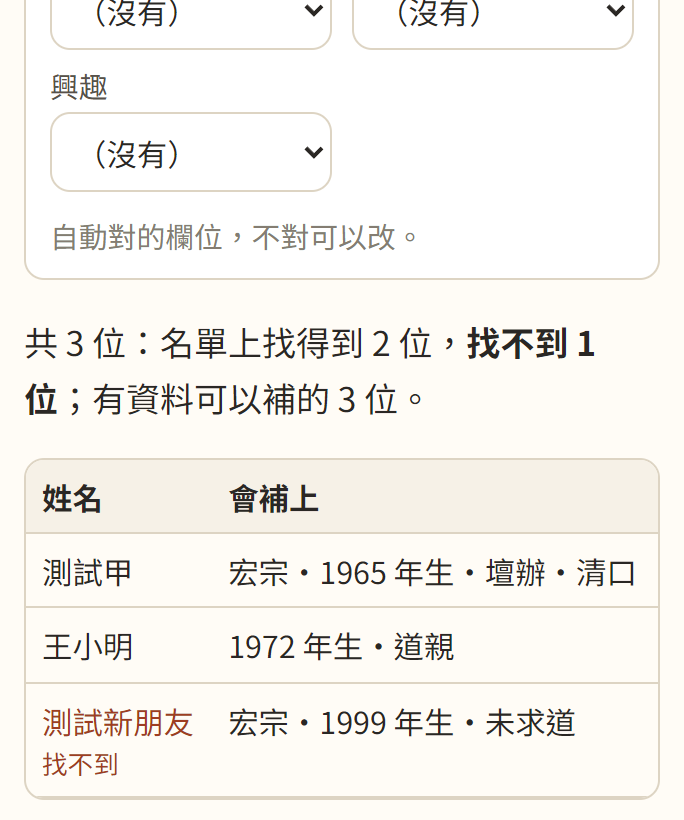
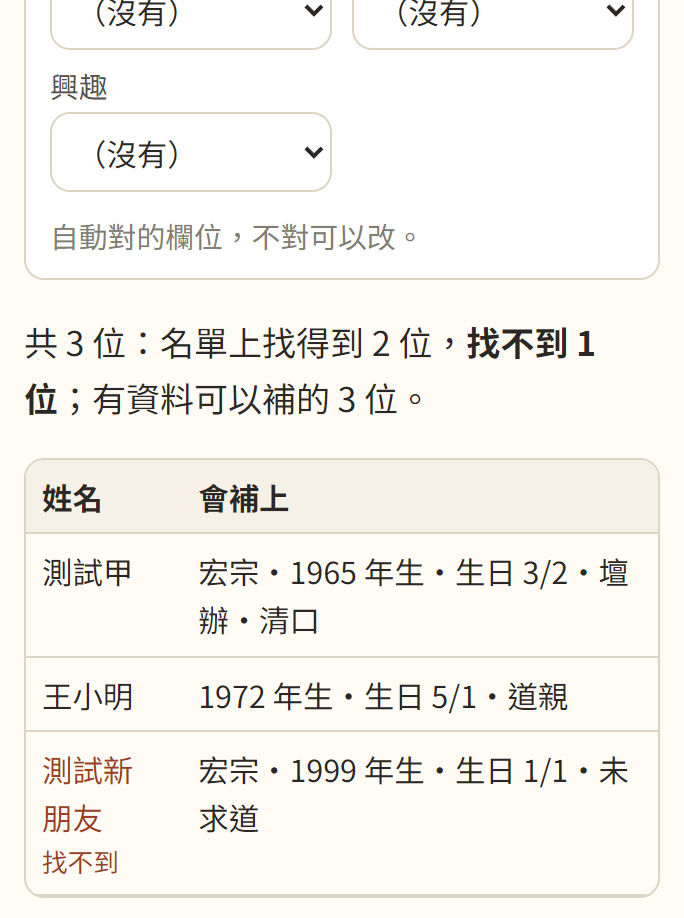
成員生日：月日選填（編輯、卡片 🎂、匯入帶月日）

diff --git a/index.html b/index.html
@@ -23,7 +23,7 @@
   <link rel="preconnect" href="https://fonts.googleapis.com">
   <link rel="preconnect" href="https://fonts.gstatic.com" crossorigin>
   <link href="https://fonts.googleapis.com/css2?family=Noto+Sans+TC:wght@400;500;700&family=Noto+Serif+TC:wght@600;700&display=swap" rel="stylesheet">
-  <link rel="stylesheet" href="css/app.css?v=20261123c">
+  <link rel="stylesheet" href="css/app.css?v=20261123d">
   <script>try { var t = localStorage.getItem('duty-calendar:text-size'); if (t === 'l' || t === 'xl') document.documentElement.classList.add('text-' + t); } catch (e) {}</script>
 </head>
 <body class="splash-on">
@@ -118,67 +118,67 @@
   <script src="https://cdn.jsdelivr.net/npm/fullcalendar@6.1.21/index.global.min.js"></script>
   <script src="https://cdn.jsdelivr.net/npm/@fullcalendar/core@6.1.21/locales/zh-tw.global.min.js"></script>
   <!-- 改了 js、css 後把 ?v= 的日期換新，手機才不會用到舊的檔案（GitHub Pages 會快取 10 分鐘） -->
-  <script src="js/site.js?v=20261123c"></script>
-  <script src="js/region.js?v=20261123c"></script>
-  <script src="js/config.js?v=20261123c"></script>
-  <script src="js/api.js?v=20261123c"></script>
-  <script src="js/format.js?v=20261123c"></script>
-  <script src="js/member-suggest.js?v=20261123c"></script>
-  <script src="js/member-file.js?v=20261123c"></script>
-  <script src="js/family.js?v=20261123c"></script>
-  <script src="js/lunar-util.js?v=20261123c"></script>
-  <script src="js/date-list.js?v=20261123c"></script>
-  <script src="js/share.js?v=20261123c"></script>
-  <script src="js/addcal.js?v=20261123c"></script>
-  <script src="js/duty-cache.js?v=20261123c"></script>
-  <script src="js/thanks-board.js?v=20261123c"></script>
-  <script src="js/calendar.js?v=20261123c"></script>
-  <script src="js/confirm.js?v=20261123c"></script>
-  <script src="js/reschedule.js?v=20261123c"></script>
-  <script src="js/signup.js?v=20261123c"></script>
-  <script src="js/duty-images.js?v=20261123c"></script>
-  <script src="js/roster-grid.js?v=20261123c"></script>
-  <script src="js/grid-page.js?v=20261123c"></script>
-  <script src="js/grid-image.js?v=20261123c"></script>
-  <script src="js/thanks-image.js?v=20261123c"></script>
-  <script src="js/celebrate.js?v=20261123c"></script>
-  <script src="js/duty.js?v=20261123c"></script>
-  <script src="js/mine.js?v=20261123c"></script>
-  <script src="js/venue-hours.js?v=20261123c"></script>
-  <script src="js/venue.js?v=20261123c"></script>
-  <script src="js/push.js?v=20261123c"></script>
-  <script src="js/admin.js?v=20261123c"></script>
-  <script src="js/admin-pages.js?v=20261123c"></script>
-  <script src="js/draft-editor.js?v=20261123c"></script>
-  <script src="js/group-fair.js?v=20261123c"></script>
-  <script src="js/admin-duties.js?v=20261123c"></script>
-  <script src="js/admin-accounts.js?v=20261123c"></script>
-  <script src="js/admin-site.js?v=20261123c"></script>
-  <script src="js/region-setup.js?v=20261123c"></script>
-  <script src="js/import-parse.js?v=20261123c"></script>
-  <script src="js/admin-import.js?v=20261123c"></script>
-  <script src="js/admin-people.js?v=20261123c"></script>
-  <script src="js/admin-hq.js?v=20261123c"></script>
-  <script src="js/stats-calc.js?v=20261123c"></script>
-  <script src="js/edu-stats.js?v=20261123c"></script>
-  <script src="js/admin-goals.js?v=20261123c"></script>
-  <script src="js/admin-venue.js?v=20261123c"></script>
-  <script src="js/admin-push.js?v=20261123c"></script>
-  <script src="js/tutorial.js?v=20261123c"></script>
-  <script src="js/help.js?v=20261123c"></script>
-  <script src="js/rollcall.js?v=20261123c"></script>
-  <script src="js/stats-export.js?v=20261123c"></script>
-  <script src="js/repair.js?v=20261123c"></script>
-  <script src="js/activity-report.js?v=20261123c"></script>
-  <script src="js/member-stats.js?v=20261123c"></script>
-  <script src="js/admin-stats.js?v=20261123c"></script>
-  <script src="js/admin-report.js?v=20261123c"></script>
-  <script src="js/admin-recent-signups.js?v=20261123c"></script>
-  <script src="js/admin-notice.js?v=20261123c"></script>
-  <script src="js/admin-notify.js?v=20261123c"></script>
-  <script src="js/history-parse.js?v=20261123c"></script>
-  <script src="js/admin-history.js?v=20261123c"></script>
-  <script src="js/easy-mode.js?v=20261123c"></script>
-  <script src="js/app.js?v=20261123c"></script>
+  <script src="js/site.js?v=20261123d"></script>
+  <script src="js/region.js?v=20261123d"></script>
+  <script src="js/config.js?v=20261123d"></script>
+  <script src="js/api.js?v=20261123d"></script>
+  <script src="js/format.js?v=20261123d"></script>
+  <script src="js/member-suggest.js?v=20261123d"></script>
+  <script src="js/member-file.js?v=20261123d"></script>
+  <script src="js/family.js?v=20261123d"></script>
+  <script src="js/lunar-util.js?v=20261123d"></script>
+  <script src="js/date-list.js?v=20261123d"></script>
+  <script src="js/share.js?v=20261123d"></script>
+  <script src="js/addcal.js?v=20261123d"></script>
+  <script src="js/duty-cache.js?v=20261123d"></script>
+  <script src="js/thanks-board.js?v=20261123d"></script>
+  <script src="js/calendar.js?v=20261123d"></script>
+  <script src="js/confirm.js?v=20261123d"></script>
+  <script src="js/reschedule.js?v=20261123d"></script>
+  <script src="js/signup.js?v=20261123d"></script>
+  <script src="js/duty-images.js?v=20261123d"></script>
+  <script src="js/roster-grid.js?v=20261123d"></script>
+  <script src="js/grid-page.js?v=20261123d"></script>
+  <script src="js/grid-image.js?v=20261123d"></script>
+  <script src="js/thanks-image.js?v=20261123d"></script>
+  <script src="js/celebrate.js?v=20261123d"></script>
+  <script src="js/duty.js?v=20261123d"></script>
+  <script src="js/mine.js?v=20261123d"></script>
+  <script src="js/venue-hours.js?v=20261123d"></script>
+  <script src="js/venue.js?v=20261123d"></script>
+  <script src="js/push.js?v=20261123d"></script>
+  <script src="js/admin.js?v=20261123d"></script>
+  <script src="js/admin-pages.js?v=20261123d"></script>
+  <script src="js/draft-editor.js?v=20261123d"></script>
+  <script src="js/group-fair.js?v=20261123d"></script>
+  <script src="js/admin-duties.js?v=20261123d"></script>
+  <script src="js/admin-accounts.js?v=20261123d"></script>
+  <script src="js/admin-site.js?v=20261123d"></script>
+  <script src="js/region-setup.js?v=20261123d"></script>
+  <script src="js/import-parse.js?v=20261123d"></script>
+  <script src="js/admin-import.js?v=20261123d"></script>
+  <script src="js/admin-people.js?v=20261123d"></script>
+  <script src="js/admin-hq.js?v=20261123d"></script>
+  <script src="js/stats-calc.js?v=20261123d"></script>
+  <script src="js/edu-stats.js?v=20261123d"></script>
+  <script src="js/admin-goals.js?v=20261123d"></script>
+  <script src="js/admin-venue.js?v=20261123d"></script>
+  <script src="js/admin-push.js?v=20261123d"></script>
+  <script src="js/tutorial.js?v=20261123d"></script>
+  <script src="js/help.js?v=20261123d"></script>
+  <script src="js/rollcall.js?v=20261123d"></script>
+  <script src="js/stats-export.js?v=20261123d"></script>
+  <script src="js/repair.js?v=20261123d"></script>
+  <script src="js/activity-report.js?v=20261123d"></script>
+  <script src="js/member-stats.js?v=20261123d"></script>
+  <script src="js/admin-stats.js?v=20261123d"></script>
+  <script src="js/admin-report.js?v=20261123d"></script>
+  <script src="js/admin-recent-signups.js?v=20261123d"></script>
+  <script src="js/admin-notice.js?v=20261123d"></script>
+  <script src="js/admin-notify.js?v=20261123d"></script>
+  <script src="js/history-parse.js?v=20261123d"></script>
+  <script src="js/admin-history.js?v=20261123d"></script>
+  <script src="js/easy-mode.js?v=20261123d"></script>
+  <script src="js/app.js?v=20261123d"></script>
 </body>
 </html>

diff --git a/js/admin-people.js b/js/admin-people.js
@@ -64,7 +64,7 @@
   function importMembers(guard, reload) {
     const md = Modal.open(`
       <h2 class="modal-title">📋 匯入成員資料</h2>
-      <p class="modal-note">選 <strong>Excel、Word、PDF</strong> 檔，或把表格貼在下面，會自動找出<strong>姓名、佛堂、年齡（出生年）、身分、清口、國外、父母、學校、興趣</strong>，依名字幫成員補上。只更新有給的欄位，不會清掉原本的資料。</p>
+      <p class="modal-note">選 <strong>Excel、Word、PDF</strong> 檔，或把表格貼在下面，會自動找出<strong>姓名、佛堂、年齡（出生年、生日）、身分、清口、國外、父母、學校、興趣</strong>，依名字幫成員補上。只更新有給的欄位，不會清掉原本的資料。</p>
       <label class="btn btn-block">📂 選檔案（Excel、Word、PDF，可以好幾個）<input type="file" accept=".xlsx,.xls,.xlsm,.csv,.ods,.docx,.doc,.pdf" multiple hidden data-file></label>
       <details class="import-paste"><summary>或貼上表格／文字</summary>
         <textarea class="input day-text" rows="6" data-text placeholder="從 Excel 複製整張表貼上（第一列是標題：姓名、佛堂、年齡⋯），或貼上 Claude 整理的文字"></textarea>
@@ -87,7 +87,7 @@
     const srcBox = el.querySelector('[data-sources]');
     const known = () => new Set(memberList.flatMap((m) => [m.name].concat(m.aliases || [])));
     const FIELD_LABEL = { name: '姓名', temple: '佛堂', age: '年齡', birth: '出生年', identity: '身分', vegetarian: '清口', overseas: '國外', parents: '父母', parents2: '父母（另一欄）', school: '學校', interest: '興趣' };
-    const show = (it) => [it.temple, it.age ? it.age + ' 歲' : (it.birthYear ? it.birthYear + ' 年生' : ''), it.identity, it.vegetarian ? '清口' : '', it.overseas, it.parents ? '父母：' + it.parents.join('、') : '', it.school, it.interest].filter(Boolean).join('・');
+    const show = (it) => [it.temple, it.age ? it.age + ' 歲' : (it.birthYear ? it.birthYear + ' 年生' : ''), it.birthday ? '生日 ' + Number(it.birthday.slice(0, 2)) + '/' + Number(it.birthday.slice(3)) : '', it.identity, it.vegetarian ? '清口' : '', it.overseas, it.parents ? '父母：' + it.parents.join('、') : '', it.school, it.interest].filter(Boolean).join('・');
 
     function paint() {
       items = [];
@@ -326,7 +326,7 @@
           <li><button type="button" class="person-card${m.active ? '' : ' is-inactive'}" data-row="${m.row}">
             <span class="person-card-name">${esc(m.name)}${m.aliases && m.aliases.length ? `<small class="person-alias">（${esc(m.aliases.join('、'))}）</small>` : ''}${m.temple ? `<span class="tag tag-temple">${esc(m.temple)}</span>` : ''}${m.overseas ? `<span class="tag tag-temple">🌏 ${esc(m.overseas)}</span>` : ''}
               ${m.identity ? `<span class="tag">${esc(m.identity)}</span>` : '<span class="tag tag-warn">未填身分</span>'}
-              ${m.active ? '' : '<span class="tag">已停用</span>'}${m.pending ? '<span class="tag tag-warn">待確認</span>' : ''}${m.identity === '道親' && m.vegetarian ? '<span class="tag">🥬 清口</span>' : ''}${m.age !== '' && m.age !== undefined ? `<span class="tag">${m.age} 歲</span>` : ''}${famTags(m)}${memberState.missing ? missingOf(m).filter(([k]) => k !== 'identity').map(([, label]) => `<span class="tag tag-warn">${label.replace('沒填', '未填')}</span>`).join('') : ''}</span>
+              ${m.active ? '' : '<span class="tag">已停用</span>'}${m.pending ? '<span class="tag tag-warn">待確認</span>' : ''}${m.identity === '道親' && m.vegetarian ? '<span class="tag">🥬 清口</span>' : ''}${m.age !== '' && m.age !== undefined ? `<span class="tag">${m.age} 歲</span>` : ''}${m.birthday ? `<span class="tag">🎂 ${Number(m.birthday.slice(0, 2))}/${Number(m.birthday.slice(3))}</span>` : ''}${famTags(m)}${memberState.missing ? missingOf(m).filter(([k]) => k !== 'identity').map(([, label]) => `<span class="tag tag-warn">${label.replace('沒填', '未填')}</span>`).join('') : ''}</span>
             <span class="person-card-meta">${esc(GROUP_TYPES.filter((t) => m.groups[t]).map((t) => `${t.replace('組', '')}：${m.groups[t]}`).join('・') || '未分組')}${m.note ? '・' + esc(m.note) : ''}</span>
           </button></li>`;
     function draw() {
@@ -464,7 +464,10 @@
             <option value="">（無）</option>
             ${groups.filter((g) => g.type === t).map((g) => `<option${g.name === v.groups[t] ? ' selected' : ''}>${esc(g.name)}</option>`).join('')}
           </select></label>`).join('')}
-      <label class="form-row"><span>年齡（選填，今年幾歲；之後每年自動加一歲）</span><input class="input" name="age" inputmode="numeric" maxlength="3" value="${esc(v.age === undefined ? '' : v.age)}" placeholder="例：45"></label>
+      <div class="form-grid-2">
+        <label class="form-row"><span>年齡（選填，今年幾歲；之後每年自動加一歲）</span><input class="input" name="age" inputmode="numeric" maxlength="3" value="${esc(v.age === undefined ? '' : v.age)}" placeholder="例：45"></label>
+        <label class="form-row"><span>生日（選填，月/日）</span><input class="input" name="birthday" inputmode="numeric" maxlength="5" value="${esc(v.birthday ? Number(v.birthday.slice(0, 2)) + '/' + Number(v.birthday.slice(3)) : '')}" placeholder="例：3/7"></label>
+      </div>
       <label class="check" data-veg-row${(v.identity || '') === '道親' ? '' : ' hidden'}><input type="checkbox" name="vegetarian"${v.vegetarian ? ' checked' : ''}> 🥬 已清口</label>
       <fieldset class="form-block family-block">
         <legend>👨👩👧 家人（道二代、道三代）</legend>
@@ -481,7 +484,7 @@
       await Api.admin('adminSaveMember', {
         row: m ? m.row : undefined, original: m ? m.name : undefined,
         member: { name: f.elements.name.value, identity: f.querySelector('input[name=identity]:checked').value, groups: g, note: f.elements.note.value, active: f.elements.active.checked,
-          age: f.elements.age.value.trim(), temple: f.elements.temple.value, parents: f.elements.parents.value, school: f.elements.school.value, interest: f.elements.interest.value, aliases: f.elements.aliases.value, overseas: f.querySelector('input[name=overseas]:checked') ? f.querySelector('input[name=overseas]:checked').value : undefined, vegetarian: f.querySelector('input[name=identity]:checked').value === '道親' && f.elements.vegetarian.checked }
+          age: f.elements.age.value.trim(), birthday: f.elements.birthday.value.trim(), temple: f.elements.temple.value, parents: f.elements.parents.value, school: f.elements.school.value, interest: f.elements.interest.value, aliases: f.elements.aliases.value, overseas: f.querySelector('input[name=overseas]:checked') ? f.querySelector('input[name=overseas]:checked').value : undefined, vegetarian: f.querySelector('input[name=identity]:checked').value === '道親' && f.elements.vegetarian.checked }
       });
       notice(AdminPage.notice('success', m ? '已存檔' : '已新增成員', f.elements.name.value.trim()));
       afterWrite(reload);

diff --git a/js/member-file.js b/js/member-file.js
@@ -80,6 +80,18 @@
     return null;
   }
 
+  /** 生日的月日 →「MM-dd」（2026/11/23，選填）：Date、Excel 序號、1965/3/2、54.03.02、1965-03-02；只有年就回 '' */
+  function parseMonthDay(v) {
+    const two = (n) => String(n).padStart(2, '0');
+    if (v instanceof Date && !isNaN(v)) return two(v.getMonth() + 1) + '-' + two(v.getDate());
+    if (typeof v === 'number' && v > 3000 && v < 60000) { const d = new Date(Math.round((v - 25569) * 86400000)); return two(d.getUTCMonth() + 1) + '-' + two(d.getUTCDate()); }
+    const s = clean(v).replace(/^民國\s*/, '').replace(/\s/g, '');
+    const m = s.match(/^\d{2,4}\s*[年./\-]\s*(\d{1,2})\s*[月./\-]\s*(\d{1,2})日?$/);
+    if (!m) return '';
+    const mo = Number(m[1]), d = Number(m[2]);
+    return mo >= 1 && mo <= 12 && d >= 1 && d <= 31 ? two(mo) + '-' + two(d) : '';
+  }
+
   /** 找表頭那一列：前 15 列裡，有「姓名」又最多欄位對得上的 */
   function findHeader(rows) {
     let best = null;
@@ -157,6 +169,8 @@
       if (age !== null) it.age = age;
       const by = map.birth !== undefined ? parseBirth(get('birth'), thisYear) : null;
       if (by) it.birthYear = by;
+      const md = map.birth !== undefined ? parseMonthDay(get('birth')) : '';
+      if (md) it.birthday = md;
       const id = parseIdentity(get('identity'));
       if (id) it.identity = id;
       if (map.vegetarian !== undefined && parseVegetarian(get('vegetarian'))) it.vegetarian = true;
@@ -291,7 +305,7 @@
     return String(text || '').split(/\r?\n/).filter((l) => clean(l)).map((l) => (l.indexOf('\t') !== -1 ? l.split('\t') : l.split(/\s{2,}|　+|,|，/)).map(clean));
   }
 
-  const api = { loadPdfJs: pdfJs, loadSheetJs: sheetJs, FIELDS, FIELD_KEYS, parseIdentity, parseVegetarian, parseAge, parseBirth, parseOverseas, detect, toItems, docxXmlToTables, pdfItemsToRows, alignByHeader, readFile, textToRows };
+  const api = { loadPdfJs: pdfJs, loadSheetJs: sheetJs, FIELDS, FIELD_KEYS, parseIdentity, parseVegetarian, parseAge, parseBirth, parseMonthDay, parseOverseas, detect, toItems, docxXmlToTables, pdfItemsToRows, alignByHeader, readFile, textToRows };
   if (typeof module !== 'undefined' && module.exports) module.exports = api;
   else root.MemberFile = api;
 })(typeof window !== 'undefined' ? window : globalThis);

diff --git a/docs/spec.md b/docs/spec.md
@@ -350,6 +350,7 @@
 - **填了佛堂自動帶入勤務了愿組（2026/11/22）**：勤務了愿組是依佛堂分的，templeGroupMap_ 看同一佛堂有設組的成員，2/3 以上同一組就是那個佛堂的組（沒人設過或分不出來＝不帶）。成員存檔（佛堂有改、勤務了愿組空白）、從出勤紀錄加入、報名自動加入（待確認）、adminSetMemberExtra 改佛堂、匯入成員資料（含新增）時，勤務了愿組空白就帶入；已經有組的不蓋掉。成員編輯視窗選了佛堂、勤務了愿組空著時當場帶入並提示「已依佛堂帶入」。打掃組、拜香輪值組依人名，不自動帶。
 - **依名單設定組別（2026/11/22）**：分組頁「📋 依名單設定組別」：選分組類型、貼上「組名：名單」（一行一組，組名後面的冒號可省；「召集人、組長、佐理、組員、副組長」字樣和括號會拿掉），寫「佛堂」結尾的當佛堂、其他當姓名；「用各組的「組員」欄」把分組上的組長、佐理、組員帶進來。adminAssignGroups（總管理者、道務、教育）：組名比對時中文數字換成阿拉伯數字、去掉括號（第一組＝第1組，第五組(青年組)＝第五組），沒有的組整批擋下並列出現有的組；佛堂去掉「佛堂」兩字後相同或互相包含（高徽佛堂↔高徽公共）的成員全部設成那組；姓名（或別名）對到一位才設，同名好幾位列為分不出來；名字比佛堂優先；可選「名單上沒有的人清掉這一類組別」（只清啟用中的）；待確認的成員不動。沒有 apply＝只預覽（誰從哪組換到哪組、依佛堂或依名字、找不到的名字、對不到的佛堂、同名分不出來），按「確定設定」才寫入並記操作紀錄。
 - **道二代、道三代與學齡（2026/11/22）**：「成員」分頁最後新增「父母」（成員名單上的爸爸、媽媽，姓名「、」分開，最多 4 位，不能填自己）、「學校」（50 字）、「興趣」（200 字）。成員編輯視窗多「👨👩👧 家人」區：父母欄連動成員名單（好幾位），下面即時顯示自動算的學齡、第幾代、子女，父母不在名單上會提醒。**第幾代**（js/family.js Family.generations，前端算、不存）：父母（名單上、身分是道親／壇辦／點傳師）最大代數＋1，沒有＝第 1 代；2＝道二代、3＝道三代、4＝道四代；**只標 45 歲（含）以下**（Family.MAX_AGE；沒填年齡的照算），超過的不標籤、不算進道二代頁的人數與篩選（shownGen＝1），但真正的代數照算給子女用；父母填成環不會當掉；同名不同佛堂分開算。**學齡**（Family.schoolStage）：台灣學年 9 月開始，學年開始時滿 6 歲＝國小一年級，依出生年推算（只有出生年，9 月以後生日的可能差一年）：學齡前（3 歲以下）、幼兒園、國小 1～6、國中 1～3、高中 1～3、大學 1～4，之後不顯示。成員卡片多「道二代」「國小 3 年級」標籤。👥 人員多一頁「👨👩👧 道二代」（#/admin/youth，所有帳號看得到；總管理者、道務、教育能改）：上面人數卡（道二代、道三代、道四代以上、各學齡，點了篩選），篩選（道二代以上或學齡中／道二代／道三代／道四代以上／學齡中還沒填父母／全部；學齡；搜尋姓名、父母、佛堂、學校、興趣），名單依學齡排（父母、子女、學校、興趣），點一位用 adminSetFamily 只改父母、年齡、學校、興趣（父母要在名單上），「⬇ 匯出 Excel」（姓名、佛堂、第幾代、學齡、年齡、身分、父母、子女、學校、興趣）。成員改名、合併成同一人時，別人「父母」欄裡的名字一起改（renameParentRefs_）。匯入成員資料也認得父母（家長、父親、母親，可以兩欄）、學校（就讀）、興趣（專長、才藝）欄；「父親姓名」不會被當成姓名，電話、地址欄不對到任何欄位。
+- **成員生日（月日，選填，2026/11/23）**：「成員」分頁最後新增「生日」（MM-dd；年在「出生年」）。成員編輯視窗年齡旁邊「生日（選填，月/日）」（接受 3/7、03-07、3月7日、1965/3/7、54/3/7；不合理的日期擋，空白＝清掉；birthdayOf_）；成員卡片顯示「🎂 3/7」；adminMembers 回 birthday。匯入成員資料：生日欄有月日的（日期、Excel 序號、1965/3/7、54.03.07、民國54年3月7日；MemberFile.parseMonthDay）帶 birthday，只有年的不動原本的月日；合併成同一人時沒填的用另一位的補。
 - **匯入成員資料：Excel／Word／PDF（2026/11/22）**：成員頁「📋 匯入成員資料」可以選檔案（.xlsx .xls .csv .ods、.docx、.pdf，可多個）或貼上表格（從 Excel 複製，tab 分欄）／Claude 整理的 JSON（舊格式照樣可用）。js/member-file.js 在瀏覽器裡讀（不上傳）：Excel 用 SheetJS（cdnjs 0.18.5，每個工作表一份）；Word 用 SheetJS 的 CFB 解 zip 讀 word/document.xml（每個表格一份，表格外的段落用 tab／兩個以上空白切）；PDF 用 pdf.js（cdnjs 3.11.174）取文字，同一高度一列、隔開的分格，有表頭時每格放到最近的表頭欄；文字一律 NFKC（PDF 的部首字⾝⼝⼄換回身口乙）。自動對欄：前 15 列找有「姓名」又最多欄對得上的那列當表頭（姓名／佛堂（所屬、壇）／年齡（歲）／出生（生日、年次）／身分（身份、職稱）／清口（吃素）／國外（地區）），沒有表頭就看內容猜（兩到四個中文字＝姓名、身分字、1～120 的數字＝年齡）。轉換：出生年接受西元、民國（54、54/3/2、054.03.02、民國54年）、日期、Excel 序號；身分：點傳師、壇辦（壇主、講師、辦事員）、未求道（新朋友）、道親（求道）；清口：是／V／✓／O／Y／有；國外：大陸／中國→陸、韓國。名字去掉括號裡的小名和前面的編號，跳過合計列，同名同佛堂只留一筆。畫面每個來源一塊，每個欄位可以改選對應哪一欄；下面列出前 30 位「會補上」什麼、找不到的標紅；找不到時才出現「直接新增成員」。送出仍是 adminImportMembers（只更新有給的欄位）。舊版 .doc、掃描 PDF 會說明讀不到。
 - **姓名欄一律連動成員名單（2026/11/22）**：凡是要登記人員或打姓名的地方都要接成員名單（之後新做的也一樣）。共用元件 js/member-suggest.js（MemberSuggest.attach(input, { multi, onPick })）：打一兩個字，欄位下面出現成員名單的名字（附別名、佛堂、身分），點了填入；好幾位的欄位只看游標所在那個名字，點了換成完整名字再補「、」（組員欄原本用換行的就補換行）。用公開的 searchMembers（只有姓名、佛堂、身分，不含電話；待確認、停用的不提示），打別名也找得到。接上的欄位：勤務表單的負責師資、講師、帶班、助理帶班；分組的組長或召集人、佐理、組員；報修的姓名。原本就有的：報名、補登／幫人報名、職司表點空格加人、場地借用、活動回報、我的報名。
 - **了愿感謝狀（2026/11/15）**：後台勤務詳細頁（需要報名的勤務都有，公告型沒有；11/16 起不限職司表）有「🏅 了愿感謝狀」：依名單把全部了愿的人畫成一張圖（canvas，js/thanks-image.js）：最上面三位仙佛並排（2026/11/22 起左邊濟公活佛、中間彌勒祖師、右邊觀世音菩薩，首頁感謝欄同樣順序；同報名成功的祝福圖，multiply 融進紙色），標題「感謝狀」、勤務名稱、日期地點、感謝的話，表格一人一列（姓名、職司〔多個用、分開，陪同寫（陪同）〕、天數；天數多的排前面，不寫日期），合計幾位家人、幾人次，最下面中華民國日期（不署名）。先跳預覽，按「📤 傳到 LINE」手機分享／電腦複製圖片（GridImage.shareCanvas）。只算有效報名，出席是「未到」的不列入。
